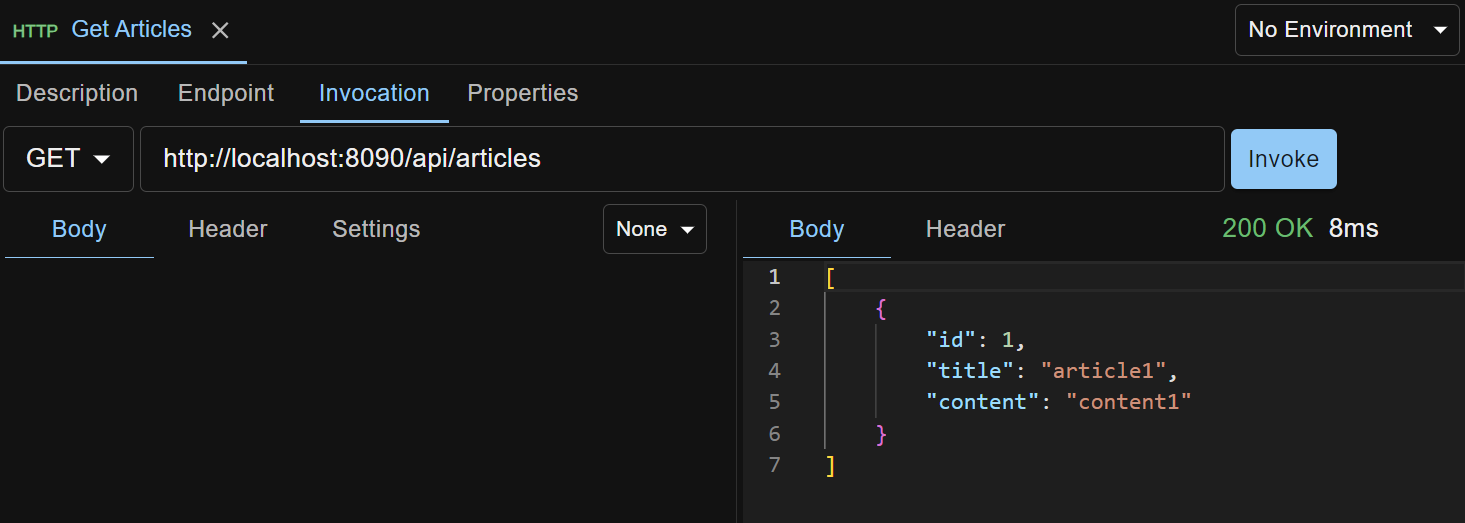
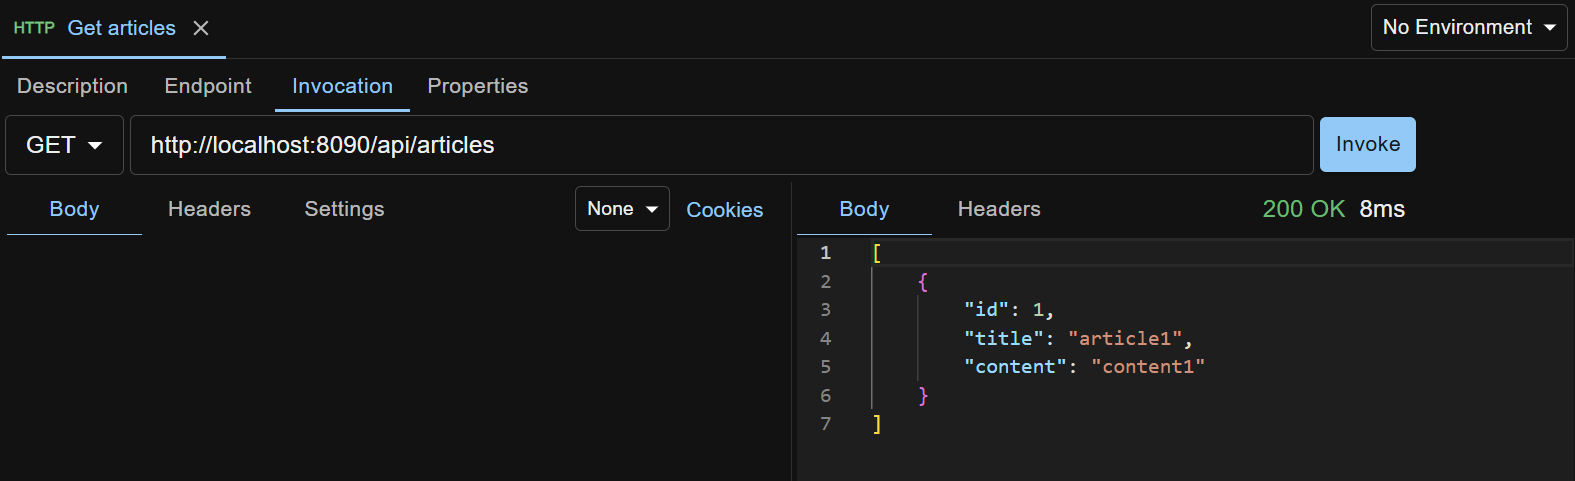
update http request/stub screenshots and quick start md

diff --git a/_docs/en/quick-start.md b/_docs/en/quick-start.md
@@ -57,13 +57,9 @@ Once the container is running, open `http://localhost:8090/ui` in a Chrome brows
 ## Ad Hoc Invocation
 Suppose you want to invoke a REST API.
 
-Right click anywhere on the left side pane, select `New Request` > HTTP, give it a name and press Enter.
+Right click anywhere on the left side pane, select `New Request` > `HTTP`, give it a name and press Enter. The request is created.
 
-The request is created:
-
-![New HTTP Request](../../screenshots/basic-use/new-http-request.png)
-
-In the request edit view, under the Invocation tab, select Method `GET`, enter a URL like `http://localhost:8090/api/articles` (an API Test Base bundled API) and click the `Invoke` button.
+In the request edit view, under the `Invocation` tab, enter a URL like `http://localhost:8090/api/articles` (an API Test Base bundled API) and click the `Invoke` button.
 
 ![Ad Hoc HTTP Invocation](../../screenshots/basic-use/ad-hoc-http-invocation.png)
 
